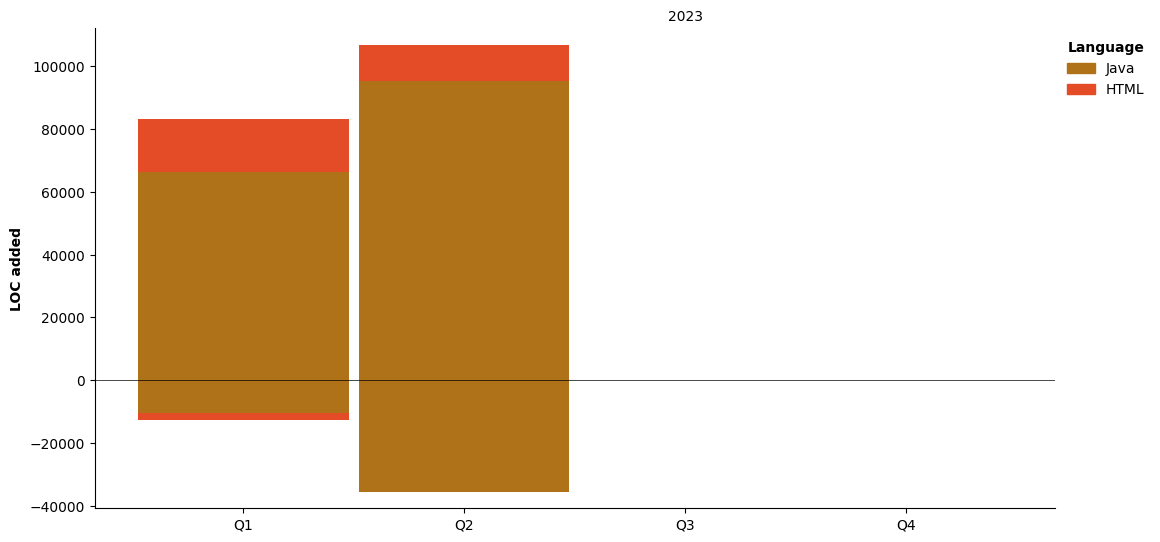
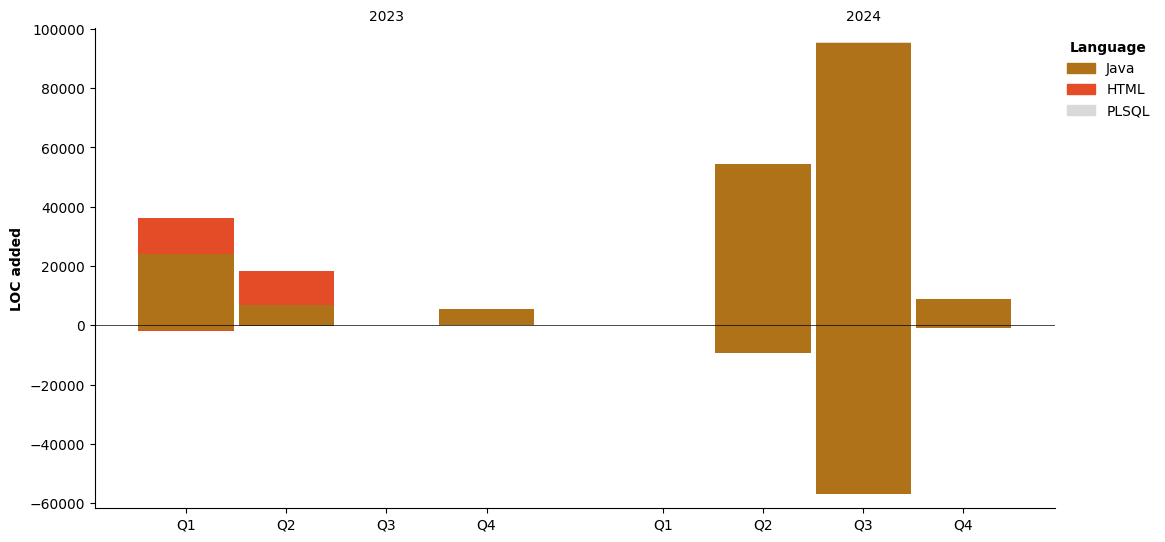
Updated with Waka Readme

diff --git a/README.md b/README.md
@@ -38,7 +38,83 @@
  
 ## Work Status
 <!--START_SECTION:waka-->
-<!--
-![Code Time](http://img.shields.io/badge/Code%20Time-799%20hrs%2012%20mins-blue)
--->
+![Code Time](http://img.shields.io/badge/Code%20Time-801%20hrs%2036%20mins-blue)
+
+![Profile Views](http://img.shields.io/badge/Profile%20Views-8-blue)
+
+**🐱 My GitHub Data** 
+
+> 📦 48.0 kB Used in GitHub's Storage 
+ > 
+> 🏆 317 Contributions in the Year 2024
+ > 
+> 🚫 Not Opted to Hire
+ > 
+> 📜 9 Public Repositories 
+ > 
+> 🔑 11 Private Repositories 
+ > 
+**I'm a Night 🦉** 
+
+```text
+🌞 Morning                193 commits         ███░░░░░░░░░░░░░░░░░░░░░░   13.63 % 
+🌆 Daytime                498 commits         █████████░░░░░░░░░░░░░░░░   35.17 % 
+🌃 Evening                461 commits         ████████░░░░░░░░░░░░░░░░░   32.56 % 
+🌙 Night                  264 commits         █████░░░░░░░░░░░░░░░░░░░░   18.64 % 
+```
+📅 **I'm Most Productive on Thursday** 
+
+```text
+Monday                   204 commits         ████░░░░░░░░░░░░░░░░░░░░░   14.41 % 
+Tuesday                  260 commits         █████░░░░░░░░░░░░░░░░░░░░   18.36 % 
+Wednesday                255 commits         █████░░░░░░░░░░░░░░░░░░░░   18.01 % 
+Thursday                 359 commits         ██████░░░░░░░░░░░░░░░░░░░   25.35 % 
+Friday                   124 commits         ██░░░░░░░░░░░░░░░░░░░░░░░   08.76 % 
+Saturday                 130 commits         ██░░░░░░░░░░░░░░░░░░░░░░░   09.18 % 
+Sunday                   84 commits          █░░░░░░░░░░░░░░░░░░░░░░░░   05.93 % 
+```
+
+
+📊 **This Week I Spent My Time On** 
+
+```text
+🕑 Time Zone: Asia/Seoul
+
+💬 Programming Languages: 
+Java                     18 hrs 10 mins      ████████████████░░░░░░░░░   64.68 % 
+YAML                     7 hrs 46 mins       ███████░░░░░░░░░░░░░░░░░░   27.67 % 
+XML                      45 mins             █░░░░░░░░░░░░░░░░░░░░░░░░   02.69 % 
+Docker                   19 mins             ░░░░░░░░░░░░░░░░░░░░░░░░░   01.14 % 
+Markdown                 16 mins             ░░░░░░░░░░░░░░░░░░░░░░░░░   00.98 % 
+
+🔥 Editors: 
+IntelliJ IDEA            28 hrs 5 mins       █████████████████████████   100.00 % 
+
+🐱💻 Projects: 
+nexthw                   20 hrs 1 min        ██████████████████░░░░░░░   71.26 % 
+java-basic               6 hrs 48 mins       ██████░░░░░░░░░░░░░░░░░░░   24.24 % 
+EmoTrak-Backend          34 mins             █░░░░░░░░░░░░░░░░░░░░░░░░   02.04 % 
+jpa                      31 mins             ░░░░░░░░░░░░░░░░░░░░░░░░░   01.88 % 
+test                     9 mins              ░░░░░░░░░░░░░░░░░░░░░░░░░   00.58 % 
+
+💻 Operating System: 
+Mac                      28 hrs 5 mins       █████████████████████████   100.00 % 
+```
+
+**I Mostly Code in Java** 
+
+```text
+Java                     12 repos            ██████████████████░░░░░░░   70.59 % 
+HTML                     4 repos             ██████░░░░░░░░░░░░░░░░░░░   23.53 % 
+PLSQL                    1 repo              █░░░░░░░░░░░░░░░░░░░░░░░░   05.88 % 
+```
+
+
+
+**Timeline**
+
+![Lines of Code chart](https://raw.githubusercontent.com/bambee83/bambee83/main/assets/bar_graph.png)
+
+
+ Last Updated on 08/12/2024 08:17:42 UTC
 <!--END_SECTION:waka-->
